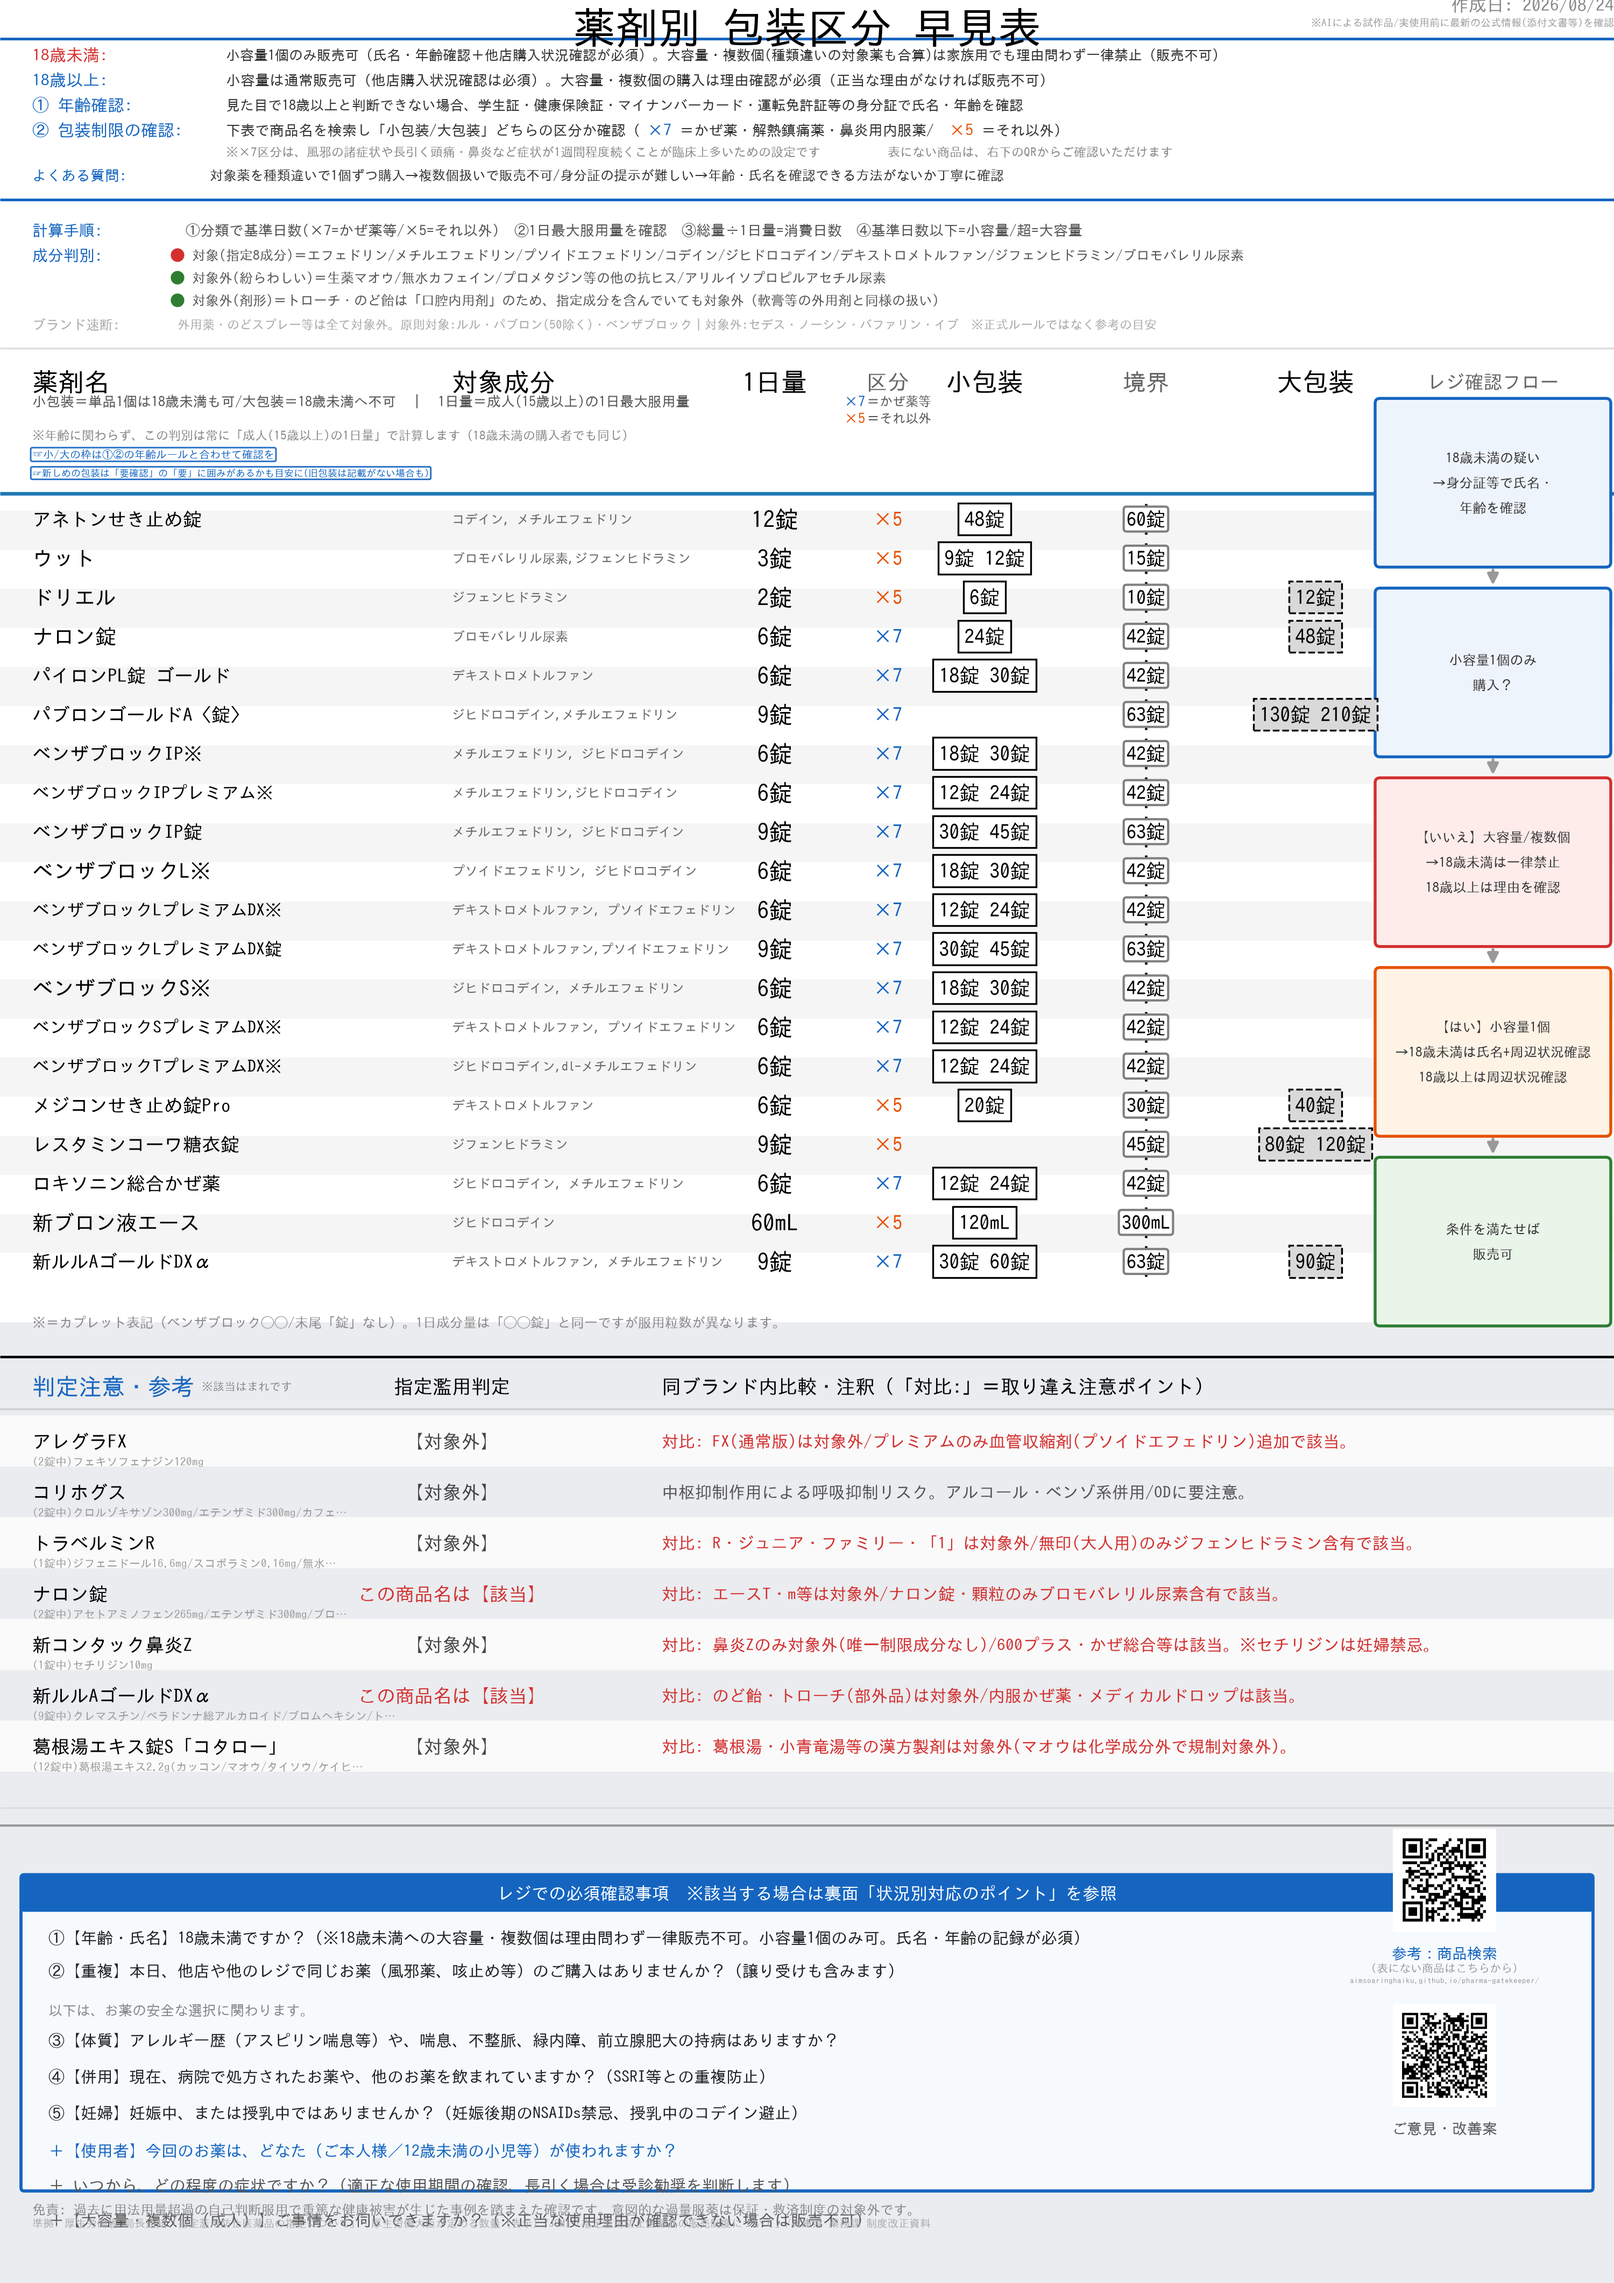
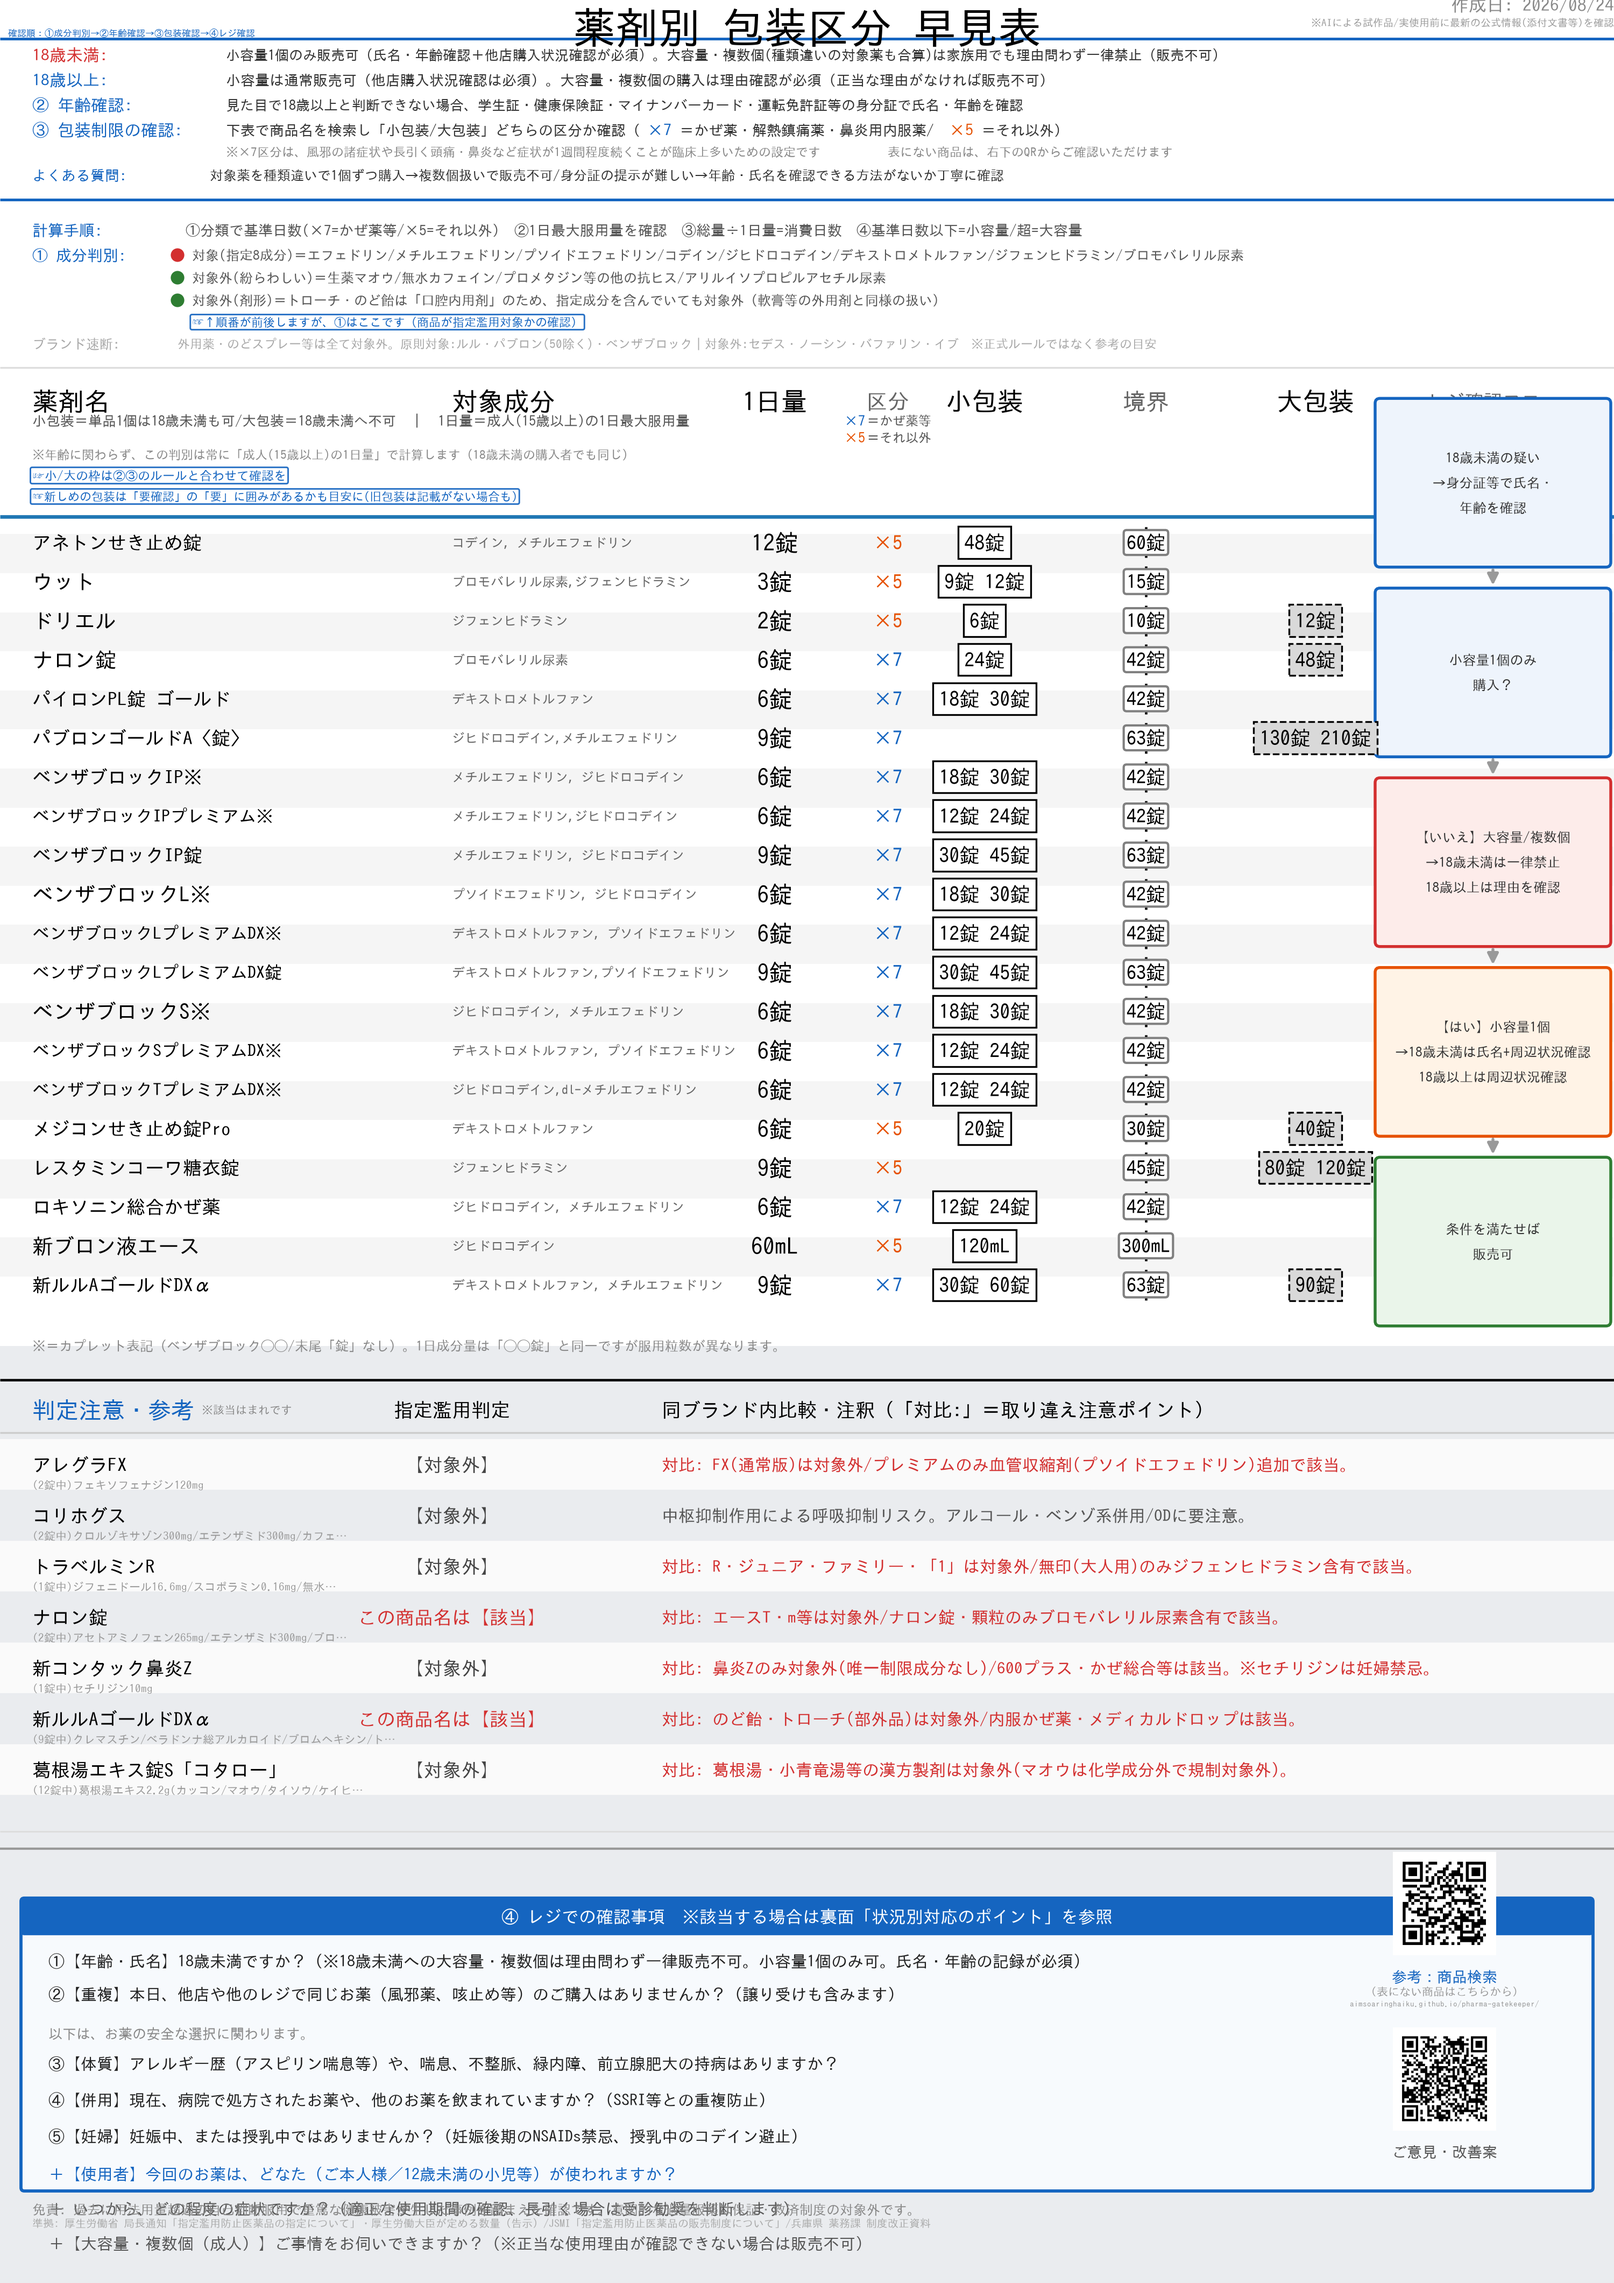
解釈層の注釈フォントを拡大、表面に確認順ガイド(①→④)を追加
裏面:
- 参考①②③の手書きメモ風注釈のフォントサイズを拡大(3.0〜3.3→3.5〜4.0)。
  イタリック体はそのまま維持し、追記であることが分かるようにした
- 参考②はテキスト拡大分の高さを確保するため画像の割当を調整

表面:
- タイトル左の余白に「確認順：①成分判別→②年齢確認→③包装確認→④レジ確認」
  を追加。実務上の理想的な確認順を示す
- 左上の番号を①成分判別/②年齢確認/③包装制限の確認/④レジでの確認事項に
  統一(成分判別は本文中では③のブロックより後に位置するため、視線誘導の
  吹き出しで「順番が前後しますが、①はここです」と明示)
- 小/大の枠の照合ガイド、パッケージ表記の目安ガイドのフォントを拡大

Claude-Session: https://claude.ai/code/session_01HtDFe8WnY993KR3Dojx73s

diff --git a/vpc_v12_front.py b/vpc_v12_front.py
@@ -185,6 +185,10 @@ ax.text(LOGICAL_W, current_y + 1.4, f"作成日: {today_str}", fontsize=7.93, ha
 ax.text(LOGICAL_W, current_y + 0.3, "※AIによる試作品/実使用前に最新の公式情報(添付文書等)を確認",
         fontsize=4.6, ha="right", va="center", color="#999999")
 
+# --- 確認順ガイド（解釈層）：実務での確認の流れを、タイトル左の余白に1行で先に示す ---
+ax.text(0.5, current_y - 0.35, "確認順：①成分判別→②年齢確認→③包装確認→④レジ確認",
+        fontsize=4.0, fontweight="bold", fontstyle="italic", ha="left", va="center", color=BLUE)
+
 # --- 使い方・販売可否（①を年齢規制＝この表の根幹に。ルール未経験者でもこの1枚で可否判断できるよう最上部に配置） ---
 current_y -= 1.55
 ax.hlines(current_y + 0.85, 0, LOGICAL_W, colors=BLUE, linewidth=1.2)
@@ -199,12 +203,12 @@ ax.text(COL_NAME_X + 12.0, current_y,
         "小容量は通常販売可（他店購入状況確認は必須）。大容量・複数個の購入は理由確認が必須（正当な理由がなければ販売不可）",
         fontsize=6.6, ha="left", va="center", color="#333333")
 current_y -= 1.55
-ax.text(COL_NAME_X, current_y, "① 年齢確認:", fontsize=7.4, fontweight="bold", ha="left", va="center", color=BLUE)
+ax.text(COL_NAME_X, current_y, "② 年齢確認:", fontsize=7.4, fontweight="bold", ha="left", va="center", color=BLUE)
 ax.text(COL_NAME_X + 12.0, current_y,
         "見た目で18歳以上と判断できない場合、学生証・健康保険証・マイナンバーカード・運転免許証等の身分証で氏名・年齢を確認",
         fontsize=6.3, ha="left", va="center", color="#333333")
 current_y -= 1.55
-ax.text(COL_NAME_X, current_y, "② 包装制限の確認:", fontsize=7.4, fontweight="bold", ha="left", va="center", color=BLUE)
+ax.text(COL_NAME_X, current_y, "③ 包装制限の確認:", fontsize=7.4, fontweight="bold", ha="left", va="center", color=BLUE)
 ax.text(COL_NAME_X + 12.0, current_y, "下表で商品名を検索し「小包装/大包装」どちらの区分か確認（", fontsize=6.6, ha="left", va="center", color="#333333")
 ax.text(COL_NAME_X + 38.1, current_y, "×7", fontsize=7.2, fontweight="bold", ha="left", va="center", color=BLUE)
 ax.text(COL_NAME_X + 40.1, current_y, "＝かぜ薬・解熱鎮痛薬・鼻炎用内服薬/", fontsize=6.6, ha="left", va="center", color="#333333")
@@ -231,7 +235,7 @@ ax.text(COL_NAME_X + 9.5, current_y,
         "①分類で基準日数(×7=かぜ薬等/×5=それ以外)　②1日最大服用量を確認　③総量÷1日量=消費日数　④基準日数以下=小容量/超=大容量",
         fontsize=6.4, ha="left", va="center", color=GRAY)
 current_y -= 1.55
-ax.text(COL_NAME_X, current_y, "成分判別:", fontsize=7.07, fontweight="bold", ha="left", va="center", color=BLUE)
+ax.text(COL_NAME_X, current_y, "① 成分判別:", fontsize=7.07, fontweight="bold", ha="left", va="center", color=BLUE)
 marker(ax, COL_NAME_X + 9.0, current_y, RED, "circle", 0.42)
 ax.text(COL_NAME_X + 9.9, current_y,
         "対象(指定8成分)＝エフェドリン/メチルエフェドリン/プソイドエフェドリン/コデイン/ジヒドロコデイン/デキストロメトルファン/ジフェンヒドラミン/ブロモバレリル尿素",
@@ -246,7 +250,10 @@ marker(ax, COL_NAME_X + 9.0, current_y, GREEN, "circle", 0.42)
 ax.text(COL_NAME_X + 9.9, current_y,
         "対象外(剤形)＝トローチ・のど飴は「口腔内用剤」のため、指定成分を含んでいても対象外（軟膏等の外用剤と同様の扱い）",
         fontsize=5.9, ha="left", va="center", color=GRAY)
-current_y -= 1.5
+current_y -= 1.35
+draw_eye_guide(ax, COL_NAME_X + 9.9, current_y,
+               "↑順番が前後しますが、①はここです（商品が指定濫用対象かの確認）", color=BLUE, fontsize=5.2)
+current_y -= 1.35
 WATERMARK_GRAY = "#a8a8a8"  # alpha合成は印刷時に消えることがあるため、不透明な淡いグレー+斜体+小フォントで「参考情報」を表現
 ax.text(COL_NAME_X, current_y, "ブランド速断:", fontsize=6.0, fontweight="bold", fontstyle="italic",
         ha="left", va="center", color=WATERMARK_GRAY)
@@ -280,14 +287,14 @@ current_y -= 1.05
 ax.text(COL_NAME_X, current_y, "※年齢に関わらず、この判別は常に「成人(15歳以上)の1日量」で計算します（18歳未満の購入者でも同じ）",
         fontsize=5.6, ha="left", va="center", color=LGRAY)
 
-# --- 視線誘導（解釈層）：小/大の枠は①②の年齢ルールと合わせて確認する運用上のポイントを一言添える ---
-current_y -= 1.2
+# --- 視線誘導（解釈層）：小/大の枠は②③のルールと合わせて確認する運用上のポイントを一言添える ---
+current_y -= 1.3
 draw_eye_guide(ax, COL_NAME_X, current_y,
-               "小/大の枠は①②の年齢ルールと合わせて確認を", color=BLUE, fontsize=4.7)
-current_y -= 1.15
+               "小/大の枠は②③のルールと合わせて確認を", color=BLUE, fontsize=5.6)
+current_y -= 1.3
 draw_eye_guide(ax, COL_NAME_X, current_y,
                "新しめの包装は「要確認」の「要」に囲みがあるかも目安に(旧包装は記載がない場合も)",
-               color=BLUE, fontsize=4.3)
+               color=BLUE, fontsize=5.2)
 
 current_y -= 1.25
 ax.hlines(current_y, 0, LOGICAL_W, linewidth=1.6)
@@ -470,7 +477,7 @@ ax.add_patch(patches.FancyBboxPatch((COL_NAME_X - 0.5, box_top - box_h), LOGICAL
                                      boxstyle="round,pad=0.2", linewidth=1.4, edgecolor=BLUE, facecolor="#f7fafd", zorder=2))
 ax.add_patch(patches.FancyBboxPatch((COL_NAME_X - 0.5, box_top - 1.9), LOGICAL_W - 2 * (COL_NAME_X - 0.5), 1.9,
                                      boxstyle="round,pad=0.2", linewidth=0, facecolor=BLUE, zorder=2))
-ax.text(LOGICAL_W / 2, box_top - 0.95, "レジでの必須確認事項　※該当する場合は裏面「状況別対応のポイント」を参照",
+ax.text(LOGICAL_W / 2, box_top - 0.95, "④ レジでの確認事項　※該当する場合は裏面「状況別対応のポイント」を参照",
         fontsize=7.6, fontweight="bold", ha="center", va="center", color="white", zorder=3)
 
 qy = box_top - 3.7

diff --git a/vpc_v12_back.py b/vpc_v12_back.py
@@ -167,7 +167,7 @@ def draw_poster1(x, y_top, w, h):
                      subtitle="元資料：指定濫用防止医薬品をご購入時フリップ")
     img_x0, img_y1, img_w, img_h = draw_poster_image_fit(x, y, w, y - (y_top - h) - 0.3, IMG_POSTER1)
     draw_callout_note(img_x0 + img_w * 0.35, img_y1 - 0.370 * img_h,
-                       "☞理由確認は成人(18歳以上)のみ対象", img_w * 0.62, fontsize=3.3)
+                       "☞理由確認は成人(18歳以上)のみ対象", img_w * 0.62, fontsize=4.0, line_h=1.5)
 
 
 # ==========================================================
@@ -177,16 +177,16 @@ def draw_poster2(x, y_top, w, h):
     y = panel_frame(x, y_top, w, h, "参考② 制度改正のお知らせ", ORANGE,
                      subtitle="元資料：薬物濫用ポスター「大切なお知らせ」")
     frame_bottom = y_top - h
-    img_x0, img_y1, img_w, img_h = draw_poster_image_fit(x, y, w, y - frame_bottom - 4.4, IMG_POSTER2)
+    img_x0, img_y1, img_w, img_h = draw_poster_image_fit(x, y, w, y - frame_bottom - 5.4, IMG_POSTER2)
     yy = img_y1 - img_h - 1.1
     yy = draw_callout_note(x + 0.4, yy,
                             "☞目印の傾向：外枠の「要確認」表示は小/大容量共通。大容量は「要」の文字にさらに囲みが付くことが多い",
-                            w - 0.8, fontsize=3.3, line_h=1.35, color=RED)
+                            w - 0.8, fontsize=3.9, line_h=1.55, color=RED)
     yy -= 0.25
     yy = draw_callout_note(x + 0.4, yy,
                             "パッケージ表記は数年かけて順次変更される予定。変更後もお客様へ正しくご案内できるよう、"
                             "情報にアンテナを張っておきましょう（村松早織先生／cheer-job.comコラム）",
-                            w - 0.8, fontsize=3.0, line_h=1.25, color="#666666")
+                            w - 0.8, fontsize=3.5, line_h=1.45, color="#666666")
 
 
 # ==========================================================
@@ -197,8 +197,8 @@ def draw_poster3_flow(x, y_top, w, h):
                      subtitle="元資料：販売可否判断フローチャート")
     frame_bottom = y_top - h
     img_x0, img_y1, img_w, img_h = draw_poster_image_fit(x, y, w, y - frame_bottom - 0.3, IMG_FLOWCHART)
-    draw_callout_note(img_x0 + img_w * 0.68, img_y1 - 0.838 * img_h,
-                       "☞販売しても「申し送り」が必要な場合あり", img_w * 0.30, fontsize=3.1, line_h=1.2)
+    draw_callout_note(img_x0 + img_w * 0.66, img_y1 - 0.838 * img_h,
+                       "☞販売しても「申し送り」が必要な場合あり", img_w * 0.33, fontsize=3.7, line_h=1.4)
 
 
 draw_poster1(Q1_X, ROW1_TOP, COL_W, ROW_H)
